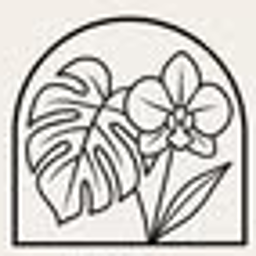
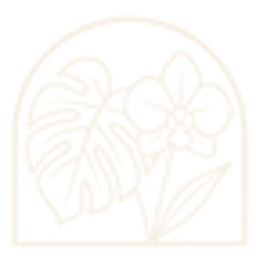
Usar el arco con la flor como marca, en negativo y sin fondo
El recuadro de la foto no funcionaba: el logo viene dibujado en negro
sobre crema y el sitio es oscuro, asi que pegado tal cual era un cuadro
claro sobre fondo casi negro —una foto pegada encima, no un logo—.

Ahora se usa el arco con la monstera y la orquidea en negativo: trazo
crema, sin fondo. Es lo que en imprenta se pide como version en negativo
y lo que el encargo original decia que hacia falta para fondo oscuro.

Se deriva del archivo original y no se recorta a mano. Como el logo es un
dibujo de lineas de un solo color, la oscuridad de cada pixel ES la
cantidad de tinta: se usa como transparencia y se pinta el color encima.
Un umbral dejaria los bordes dentados; asi cada trazo conserva su
suavizado intacto.

El emblema ya no lleva disco ni borde ni recorte: se dibuja directo sobre
el encabezado. Meterlo en una caja seria devolverle el marco que se le
acaba de quitar. Queda el resplandor dorado, que es lo que lo ata al
fondo.

Dos versiones y no una:

- Sin fondo, para el encabezado, el pie y la pestaña.
- Con el fondo oscuro horneado (`logo-og.png`), para lo que se comparte y
  para el icono de iOS. Ahi la transparencia es un problema: WhatsApp y
  la pantalla de inicio ponen detras el color que les parece —a veces
  blanco— y un logo crema sobre blanco desaparece.

De paso: la URL de `og:image` era relativa. El robot de WhatsApp no tiene
pagina contra la cual resolver un «/logo.png» y simplemente no mostraba
imagen. Ahora va absoluta.

diff --git a/src/publico/Marca.tsx b/src/publico/Marca.tsx
@@ -1,22 +1,23 @@
 /**
  * La marca del restaurante: el emblema junto al nombre.
  *
- * El emblema es el logo real del restaurante —el arco con la monstera y la
- * orquídea—, recortado sin el texto. El logo completo sí lleva «EL PATIO»
- * escrito, pero aquí el nombre ya va al lado como texto: usar el logo entero
- * pondría el nombre dos veces, una junto a otra.
+ * El emblema es el arco con la monstera y la orquídea del logo real, recortado
+ * sin el texto. El logo completo sí lleva «EL PATIO» escrito, pero aquí el
+ * nombre ya va al lado como texto: usar el logo entero pondría el nombre dos
+ * veces, una junto a otra.
  *
- * Los archivos los prepara `scripts/PrepararLogo.java` a partir del original.
+ * ── Por qué no se usa el archivo tal cual ────────────────────────────────────
+ * El logo viene dibujado en negro sobre crema y el sitio es oscuro. Pegado tal
+ * cual, es un recuadro claro sobre fondo casi negro: se ve como una foto pegada
+ * encima, no como un logo. `scripts/PrepararLogo.java` deriva del original la
+ * versión en negativo —trazo claro, sin fondo—, que es la que se usa aquí. El
+ * arco flota sobre el encabezado en vez de recortarse contra él.
  *
- * ── Sobre el resplandor ──────────────────────────────────────────────────────
- * El logo viene sobre fondo crema y el encabezado del sitio es casi negro. Un
- * cuadro claro sobre negro se ve como un recorte pegado encima, así que en vez
- * de disimularlo se asume: el emblema va en un disco, y detrás del disco y del
- * nombre hay un halo dorado que los integra al fondo en vez de dejarlos
- * flotando. Es el mismo dorado de la casa, muy abierto y muy tenue.
+ * El resplandor dorado detrás del emblema y del nombre es lo que los ata al
+ * fondo y hace que se lean como una sola marca.
  *
- * Sigue haciendo falta el archivo VECTORIAL del logo. Este viene de un JPG de
- * 150 px: alcanza para el tamaño del encabezado y no para nada más grande.
+ * Sigue haciendo falta el archivo VECTORIAL. Este sale de un JPG de 150 px:
+ * alcanza para el encabezado y no para nada más grande.
  * ─────────────────────────────────────────────────────────────────────────────
  */
 
@@ -36,8 +37,8 @@ export function Emblema({ tamano = 34, className = '' }: Props) {
           duro, para que se lea como luz y no como un segundo elemento. */}
       <span
         aria-hidden
-        className="pointer-events-none absolute rounded-full bg-oro-400/40 blur-md"
-        style={{ width: tamano * 1.4, height: tamano * 1.4 }}
+        className="pointer-events-none absolute rounded-full bg-oro-400/30 blur-lg"
+        style={{ width: tamano * 1.5, height: tamano * 1.5 }}
       />
       <img
         src="/emblema.png"
@@ -57,11 +58,11 @@ export function Emblema({ tamano = 34, className = '' }: Props) {
         width={tamano}
         height={tamano}
         /*
-         * Esquinas redondeadas y NO un círculo: el emblema es un arco, y un
-         * recorte circular le come las dos esquinas de abajo, justo donde el
-         * arco apoya. Con el cuadrado redondeado la forma se conserva entera.
+         * Sin recuadro, sin borde y sin recorte: el emblema ya viene sin fondo,
+         * así que se dibuja directamente sobre el encabezado. Meterlo en un
+         * disco o en una caja sería devolverle el marco que se le quitó.
          */
-        className="relative rounded-lg object-cover ring-1 ring-oro-400/25"
+        className="relative"
         style={{ width: tamano, height: tamano }}
       />
     </span>

diff --git a/index.html b/index.html
@@ -44,11 +44,18 @@
       franja del centro. El día que haya una imagen apaisada de 1200x630 —una
       foto del local, por ejemplo— se cambia a `summary_large_image`.
     -->
-    <meta property="og:image" content="/logo.png" />
+    <!--
+      La URL va ABSOLUTA y con el dominio escrito. Las rutas relativas no
+      sirven aquí: quien lee esta etiqueta es el robot de WhatsApp o de
+      Facebook, que no tiene página de referencia contra la cual resolver un
+      «/logo.png», y simplemente no muestra imagen. Es el error que hace que un
+      enlace se comparta sin nada.
+    -->
+    <meta property="og:image" content="https://restauranteelpatio.com/logo-og.png" />
     <meta property="og:image:width" content="320" />
     <meta property="og:image:height" content="320" />
     <meta property="og:image:alt" content="Logo del Restaurante El Patio" />
-    <meta name="twitter:image" content="/logo.png" />
+    <meta name="twitter:image" content="https://restauranteelpatio.com/logo-og.png" />
     <meta name="twitter:card" content="summary" />
     <meta name="twitter:title" content="Restaurante El Patio · Turbaco, Bolívar" />
     <meta

diff --git a/scripts/PrepararLogo.java b/scripts/PrepararLogo.java
@@ -8,20 +8,24 @@ import java.io.File;
 /**
  * Prepara el logo del restaurante para el sitio.
  *
- * El archivo que entregó el restaurante es un JPG de 150x150 con un margen
- * crema alrededor. Este programa hace tres cosas con él:
+ * El restaurante entregó un JPG de 150x150: el arco con la monstera y la
+ * orquídea sobre «EL PATIO», dibujado en negro sobre un fondo crema.
  *
- *   1. Le recorta el margen sobrante, para que el dibujo llene el cuadro y no
- *      se vea diminuto dentro de un marco vacío al ponerlo en el encabezado.
- *   2. Lo pasa a PNG. El JPG comprime por bloques y en un dibujo de líneas
- *      finas sobre fondo plano eso deja un halo sucio alrededor de cada trazo.
- *   3. Saca los tamaños que necesita el sitio: el del encabezado, el de la
- *      pestaña y el del icono de iOS.
+ * <p><b>El problema que resuelve este programa.</b> El sitio es oscuro. Pegar
+ * ese JPG tal cual en el encabezado pone un recuadro claro sobre un fondo casi
+ * negro, y se ve exactamente como lo que es: una foto pegada encima, no un
+ * logo. Lo que hace falta es lo que en imprenta se llama la versión en
+ * negativo: el mismo dibujo con el trazo claro y sin fondo.
  *
- * SE EJECUTA A MANO Y UNA SOLA VEZ. No es parte de la compilación: el logo
- * cambia cada varios años, y montar una tarea de construcción para eso sería
- * más máquina que trabajo. Cuando el restaurante entregue el vectorial —que es
- * lo que hay que pedirle—, este archivo deja de hacer falta.
+ * <p>Como el logo es un dibujo de líneas de un solo color, esa versión se puede
+ * derivar del original sin perder nada: lo oscuro de la imagen es el trazo y lo
+ * claro es el fondo, así que basta con leer cuánta tinta hay en cada punto y
+ * usar ESO como transparencia, pintando encima el color que convenga. No es un
+ * recorte a mano ni una aproximación: cada trazo conserva su suavizado.
+ *
+ * <p>SE EJECUTA A MANO, no en la compilación: el logo cambia cada varios años.
+ * Cuando el restaurante entregue el vectorial —que sigue siendo lo que hay que
+ * pedirle— este archivo deja de hacer falta.
  *
  *   cd scripts && javac -d . PrepararLogo.java && java -cp . PrepararLogo
  */
@@ -32,6 +36,12 @@ public class PrepararLogo {
 
   /** Aire que se deja alrededor del dibujo tras recortar, en píxeles. */
   private static final int MARGEN = 4;
+
+  /** El crema de la casa (crema-100). Es el color del trazo sobre lo oscuro. */
+  private static final Color CREMA = new Color(0xF5, 0xEE, 0xE1);
+
+  /** El fondo del sitio (onix-950), para la imagen que se comparte. */
+  private static final Color ONIX = new Color(0x0A, 0x09, 0x08);
 
   public static void main(String[] argumentos) throws Exception {
     File entrada = new File(System.getProperty("user.home"), "Desktop/Logo el patio.jpg");
@@ -44,31 +54,90 @@ public class PrepararLogo {
     System.out.println("Original: " + original.getWidth() + "x" + original.getHeight());
 
     BufferedImage recortado = recortarMargen(original);
-    System.out.println("Recortado: " + recortado.getWidth() + "x" + recortado.getHeight());
+    BufferedImage emblema = recortarEmblema(recortado);
+    System.out.println("Logo: " + recortado.getWidth() + "  ·  Emblema: " + emblema.getWidth());
 
     File destino = new File("../public");
 
-    // El logo completo, con su texto. Va donde el logo aparece solo: la imagen
-    // que se ve al compartir el enlace, y el icono de la pantalla de inicio.
-    escribir(recortado, 320, new File(destino, "logo.png"));
-    escribir(recortado, 180, new File(destino, "logo-180.png"));
-
-    // El emblema sin el texto, para el encabezado.
+    // ---- El emblema, en claro y sin fondo ----
     //
-    // Hace falta porque el logo YA dice «EL PATIO» y en el encabezado el nombre
-    // vuelve a estar como texto al lado: usar el logo completo ahí pondría el
-    // nombre dos veces, una encima de otra. Recortar la parte de arriba deja el
-    // arco con las plantas, que es lo que acompaña bien a un nombre escrito.
-    BufferedImage emblema = recortarEmblema(recortado);
-    System.out.println("Emblema: " + emblema.getWidth() + "x" + emblema.getHeight());
-    escribir(emblema, 256, new File(destino, "emblema.png"));
+    // Es el que va en el encabezado y en la pestaña, sobre oscuro. Sale sin
+    // fondo para que se integre con lo que tenga detrás en vez de recortarse
+    // contra ello.
+    escribir(aNegativo(emblema, CREMA), 256, new File(destino, "emblema.png"));
+    escribir(aNegativo(emblema, CREMA), 32, new File(destino, "favicon-32.png"));
 
-    // La pestaña del navegador. Se usa el emblema y no el logo completo: a 32
-    // píxeles el texto «EL PATIO» es una mancha ilegible que solo ensucia el
-    // dibujo. Un icono a ese tamaño tiene que ser una silueta reconocible.
-    escribir(emblema, 32, new File(destino, "favicon-32.png"));
+    // ---- El logo completo, en claro y sin fondo ----
+    //
+    // Con su texto. Va donde el logo aparece solo y en grande.
+    escribir(aNegativo(recortado, CREMA), 320, new File(destino, "logo.png"));
+
+    // ---- Los dos con fondo sólido ----
+    //
+    // La imagen que se ve al compartir el enlace y el icono de iOS NO pueden
+    // ser transparentes: WhatsApp y la pantalla de inicio ponen detrás el color
+    // que les parezca —a veces blanco—, y un logo crema sobre blanco desaparece.
+    // Se les hornea el fondo oscuro de la casa.
+    escribir(sobreFondo(aNegativo(recortado, CREMA), ONIX), 320, new File(destino, "logo-og.png"));
+    escribir(sobreFondo(aNegativo(emblema, CREMA), ONIX), 180, new File(destino, "logo-180.png"));
 
     System.out.println("Listo. Los archivos quedaron en public/");
+  }
+
+  /**
+   * Convierte el dibujo en su versión en negativo: trazo del color pedido,
+   * fondo transparente.
+   *
+   * La clave es de dónde sale la transparencia. No se recorta por un umbral
+   * —eso dejaría los bordes dentados—, sino que se usa la propia oscuridad del
+   * píxel: donde el original es negro del todo, el resultado es opaco; donde es
+   * el crema del fondo, es transparente; y en los bordes suavizados de cada
+   * trazo queda la media tinta que les corresponde. El dibujo conserva sus
+   * líneas finas intactas.
+   */
+  private static BufferedImage aNegativo(BufferedImage origen, Color tinta) {
+    Color fondo = new Color(origen.getRGB(0, 0));
+    // Cuánto puede oscurecerse un píxel respecto al fondo. Es el recorrido
+    // completo de tinta y sirve para llevar la oscuridad a una escala de 0 a 1.
+    float recorrido = luminancia(fondo);
+    if (recorrido <= 0) recorrido = 1;
+
+    BufferedImage salida =
+        new BufferedImage(origen.getWidth(), origen.getHeight(), BufferedImage.TYPE_INT_ARGB);
+
+    for (int y = 0; y < origen.getHeight(); y++) {
+      for (int x = 0; x < origen.getWidth(); x++) {
+        Color pixel = new Color(origen.getRGB(x, y));
+        float oscuridad = (recorrido - luminancia(pixel)) / recorrido;
+        int alfa = Math.max(0, Math.min(255, Math.round(oscuridad * 255)));
+        salida.setRGB(
+            x, y, (alfa << 24) | (tinta.getRed() << 16) | (tinta.getGreen() << 8) | tinta.getBlue());
+      }
+    }
+    return salida;
+  }
+
+  /** Pone la imagen transparente sobre un fondo sólido. */
+  private static BufferedImage sobreFondo(BufferedImage origen, Color fondo) {
+    BufferedImage salida =
+        new BufferedImage(origen.getWidth(), origen.getHeight(), BufferedImage.TYPE_INT_RGB);
+    Graphics2D lienzo = salida.createGraphics();
+    lienzo.setColor(fondo);
+    lienzo.fillRect(0, 0, salida.getWidth(), salida.getHeight());
+    lienzo.drawImage(origen, 0, 0, null);
+    lienzo.dispose();
+    return salida;
+  }
+
+  /**
+   * Cuánta luz tiene un color, con los pesos con que el ojo la percibe.
+   *
+   * No es el promedio de los tres canales: el ojo es mucho más sensible al
+   * verde que al azul, y promediando a partes iguales un trazo verde saldría
+   * más claro de lo que se ve.
+   */
+  private static float luminancia(Color color) {
+    return 0.2126f * color.getRed() + 0.7152f * color.getGreen() + 0.0722f * color.getBlue();
   }
 
   /**
@@ -148,7 +217,6 @@ public class PrepararLogo {
     // Cortando al principio, las astas de la «E» y la «L» —que suben un poco
     // más que el resto— asoman por abajo como dos manchas sin explicación.
     int lado = Math.min((inicioVacio + finVacio) / 2, alto);
-    // Centrado horizontalmente: el arco es más angosto que el cuadro completo.
     int x0 = Math.max(0, (logo.getWidth() - lado) / 2);
     lado = Math.min(lado, logo.getWidth() - x0);
     return logo.getSubimage(x0, 0, lado, lado);
@@ -167,14 +235,27 @@ public class PrepararLogo {
         && Math.abs(pixel.getBlue() - fondo.getBlue()) < TOLERANCIA;
   }
 
+  /**
+   * Escala y guarda como PNG.
+   *
+   * Conserva el canal de transparencia si lo hay. No se reduce a paleta: con
+   * transparencia, una paleta obliga a elegir entre bordes dentados o tramado,
+   * y estos archivos ya son pequeños porque casi todo el cuadro está vacío.
+   */
   private static void escribir(BufferedImage origen, int lado, File destino) throws Exception {
-    BufferedImage salida = new BufferedImage(lado, lado, BufferedImage.TYPE_INT_RGB);
+    BufferedImage salida =
+        new BufferedImage(
+            lado,
+            lado,
+            origen.getColorModel().hasAlpha()
+                ? BufferedImage.TYPE_INT_ARGB
+                : BufferedImage.TYPE_INT_RGB);
+
     Graphics2D lienzo = salida.createGraphics();
     lienzo.setRenderingHint(
         RenderingHints.KEY_INTERPOLATION, RenderingHints.VALUE_INTERPOLATION_BICUBIC);
     lienzo.setRenderingHint(RenderingHints.KEY_RENDERING, RenderingHints.VALUE_RENDER_QUALITY);
-    lienzo.setRenderingHint(
-        RenderingHints.KEY_ANTIALIASING, RenderingHints.VALUE_ANTIALIAS_ON);
+    lienzo.setRenderingHint(RenderingHints.KEY_ANTIALIASING, RenderingHints.VALUE_ANTIALIAS_ON);
     lienzo.drawImage(origen, 0, 0, lado, lado, null);
     lienzo.dispose();
 
